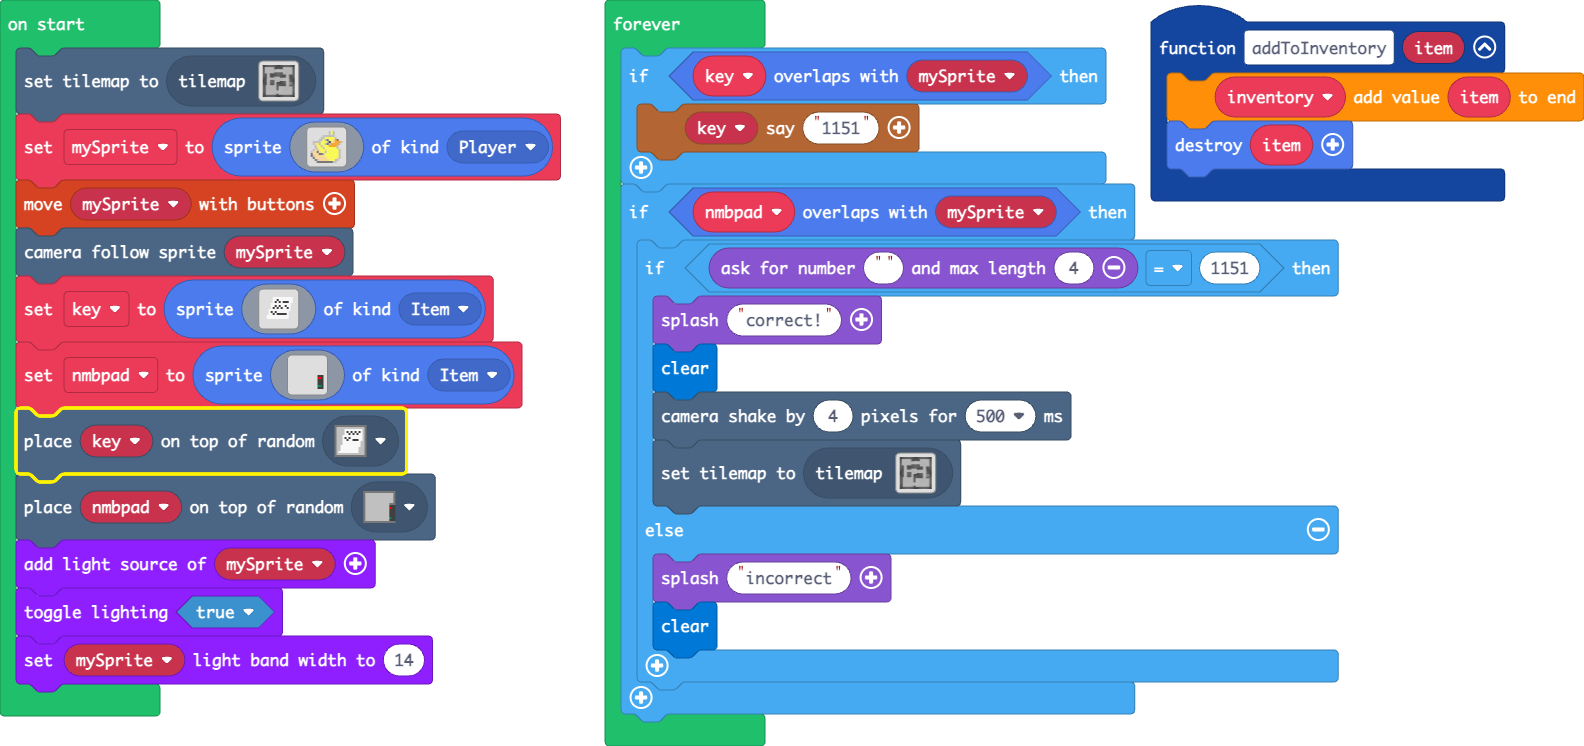
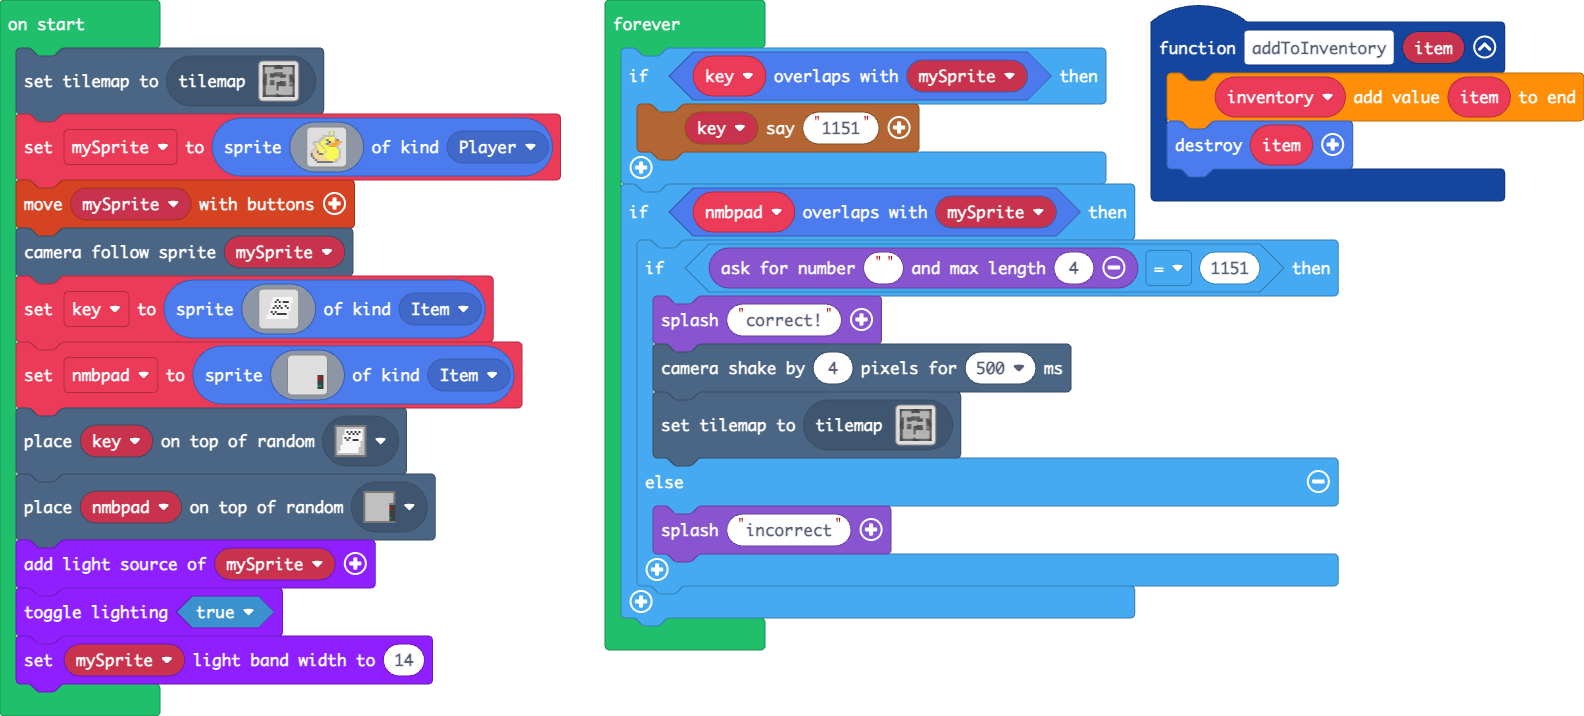
Update main.blocks, main.ts, tilemap.g.jres, tilemap.g.ts

diff --git a/tilemap.g.ts b/tilemap.g.ts
@@ -121,6 +121,25 @@ namespace myTiles {
 . . . . . . . . . . . . . . . . 
 . . . . . . . . . . . . . . . . 
 `, [myTiles.transparency16], TileScale.Sixteen);
+            case "level4":
+            case "level4":return tiles.createTilemap(hex`1000100000000000000000000000000000000000000000000000000000000000000000000000000000000000000000000000000000000000000000000000000000000000000000000000000000000000000000000000000000000000000000000000000000000000000000000000000000000000000000000000000000000000000000000000000000000000000000000000000000000000000000000000000000000000000000000000000000000000000000000000000000000000000000000000000000000000000000000000000000000000000000000000000000000000000000000000000000000000000000000000000000000000000000000000000000000000`, img`
+. . . . . . . . . . . . . . . . 
+. . . . . . . . . . . . . . . . 
+. . . . . . . . . . . . . . . . 
+. . . . . . . . . . . . . . . . 
+. . . . . . . . . . . . . . . . 
+. . . . . . . . . . . . . . . . 
+. . . . . . . . . . . . . . . . 
+. . . . . . . . . . . . . . . . 
+. . . . . . . . . . . . . . . . 
+. . . . . . . . . . . . . . . . 
+. . . . . . . . . . . . . . . . 
+. . . . . . . . . . . . . . . . 
+. . . . . . . . . . . . . . . . 
+. . . . . . . . . . . . . . . . 
+. . . . . . . . . . . . . . . . 
+. . . . . . . . . . . . . . . . 
+`, [myTiles.transparency16], TileScale.Sixteen);
         }
         return null;
     })

diff --git a/main.ts b/main.ts
@@ -24,12 +24,10 @@ forever(function () {
     if (nmbpad.overlapsWith(mySprite)) {
         if (game.askForNumber("", 4) == 1151) {
             game.splash("correct!")
-            light.clear()
             scene.cameraShake(4, 500)
             tiles.setCurrentTilemap(tilemap`map in doors`)
         } else {
             game.splash("incorrect")
-            light.clear()
         }
     }
 })
